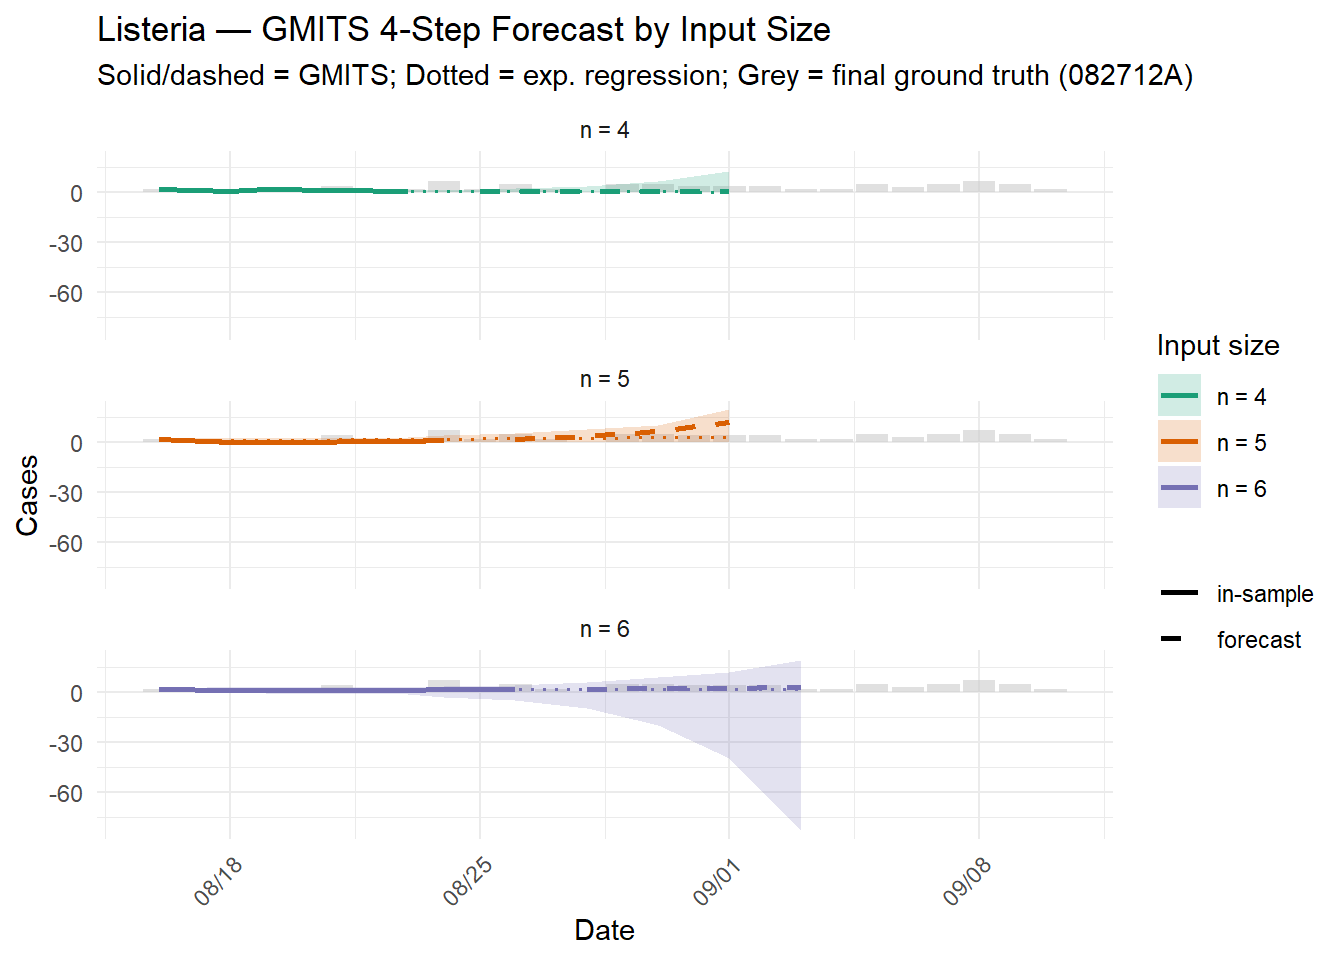
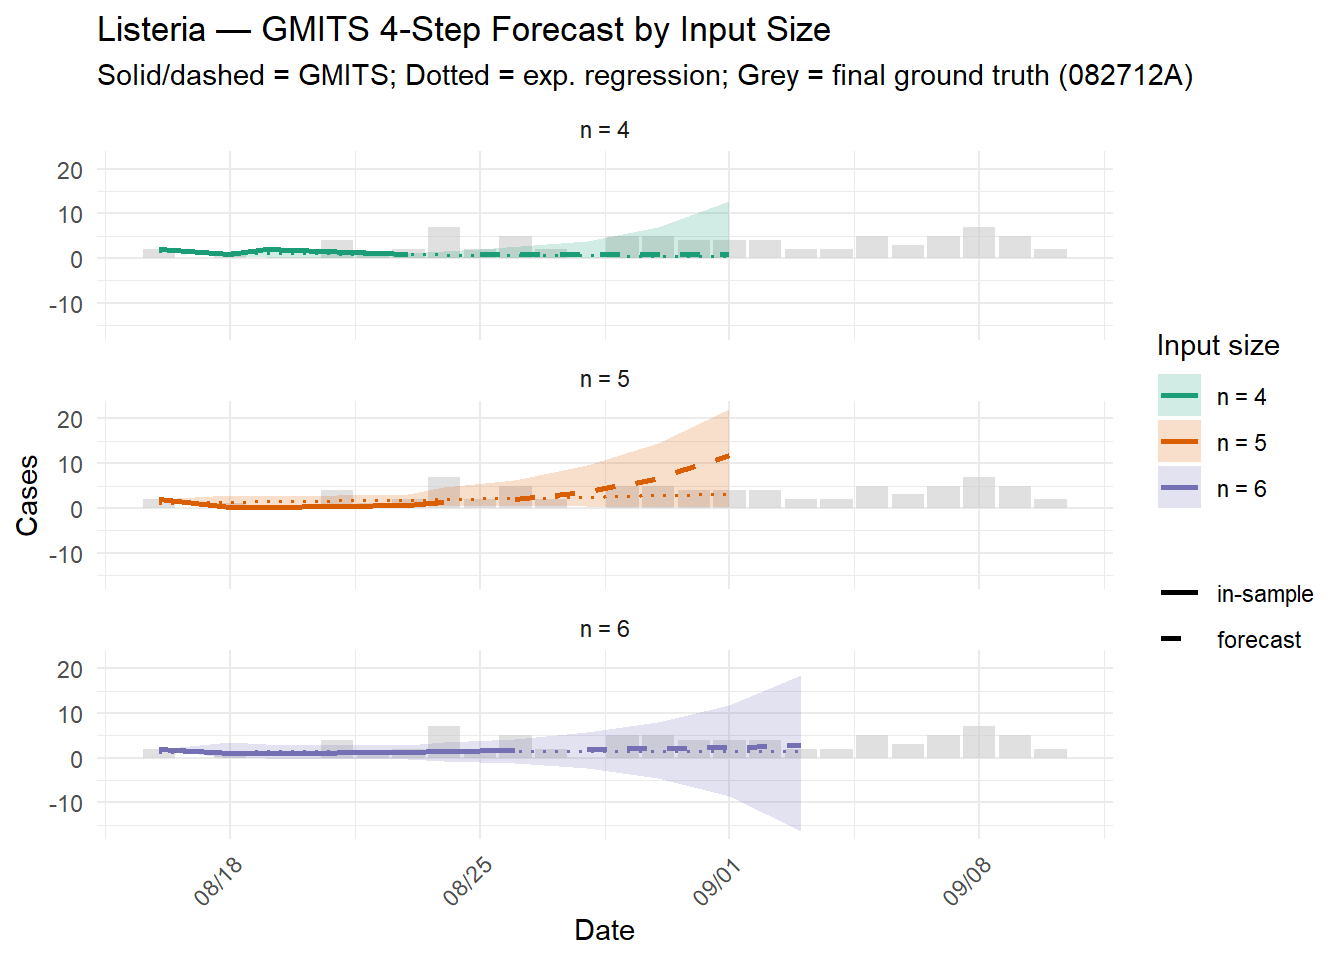
Add revision history to GMITS pages
- GMITS_Research: new "Revision history" section listing only changes
  that affect results, with before/after numbers for the 2026-10-13
  gmits() regression fix
- Shorten the inline implementation notes on all three GMITS pages and
  link them to the revision history instead of repeating the details
- Show "last updated" in page dates and on the Past works list

diff --git a/docs/GMITS_Research.html b/docs/GMITS_Research.html
@@ -11,7 +11,6 @@
 
 <meta name="author" content="Andy Chu" />
 
-<meta name="date" content="2026-05-23" />
 
 <title>GMITS: Grey Model for Irregular Time Series</title>
 
@@ -358,7 +357,7 @@ Series</h1>
 <h3 class="subtitle">Research Overview — Early-Stage Outbreak
 Forecasting</h3>
 <h4 class="author">Andy Chu</h4>
-<h4 class="date">2026-05-23</h4>
+<h4 class="date">2026-05-23 (last updated 2026-10-13)</h4>
 
 </div>
 
@@ -373,12 +372,9 @@ for the standalone write-ups of each.</p>
 <div id="functions" class="section level2 unnumbered">
 <h2 class="unnumbered">Functions</h2>
 <p>All pages load the same function file,
-<code>R/gmits_functions.R</code>. The <code>gmits()</code> regression
-was corrected on 2026-10-13: the previous version multiplied the design
-matrix by <span class="math inline">\(\Delta t\)</span> a second time,
-which shrank <span class="math inline">\((\hat a, \hat b)\)</span> by
-<span class="math inline">\(1/\Delta t\)</span> whenever reporting
-intervals were not one day.</p>
+<code>R/gmits_functions.R</code>. The regression in <code>gmits()</code>
+was corrected on 2026-10-13; see the <a
+href="#revision-history">revision history</a>.</p>
 <pre class="r"><code># Shared GMITS functions for all portfolio pages.
 # Single source of truth: pages load this file via a knitr `file =` chunk,
 # and external analyses (e.g. RA/mpox/gmits_england) source() it.
@@ -709,19 +705,14 @@ ggplot(df_synth_plot, aes(t, value, color = type, linetype = Forecast)) +
     x = &quot;Time (days from t₀)&quot;, y = &quot;Period incidence&quot;
   )</code></pre>
 <p><img src="GMITS_Research_files/figure-html/plot-synth-validate-1.png" width="672" /></p>
-<p><strong>Implementation note (corrected 2026-10-13).</strong> An
-earlier version of this page reported strong underprediction in the
-growth scenario and attributed it entirely to the background-value
-approximation. Most of that gap was an implementation error: the
-regression multiplied the design matrix by <span
-class="math inline">\(\Delta t\)</span> a second time, which shrank
-<span class="math inline">\((\hat a, \hat b)\)</span> by <span
-class="math inline">\(1/\Delta t\)</span> (previously <span
-class="math inline">\(\hat a = -0.116\)</span> for a true <span
-class="math inline">\(a = -0.4\)</span>). With the corrected regression
-the growth scenario recovers <span class="math inline">\(\hat a
-=\)</span> -0.357 and the decay scenario <span
-class="math inline">\(\hat a =\)</span> 0.293.</p>
+<p><strong>Implementation note.</strong> An earlier version of this page
+attributed a much larger growth-phase underprediction to the background
+value; most of it was an implementation error, corrected on 2026-10-13
+(<a href="#revision-history">revision history</a>). With the corrected
+regression the growth scenario recovers <span class="math inline">\(\hat
+a =\)</span> -0.357 (true <span class="math inline">\(-0.4\)</span>) and
+the decay scenario <span class="math inline">\(\hat a =\)</span> 0.293
+(true <span class="math inline">\(0.3\)</span>).</p>
 <p><strong>Remaining limitation — background-value bias in the growth
 phase.</strong> The residual gap in the growth scenario is the
 approximation bias of the GM(1,1) family. The background value <span
@@ -1376,6 +1367,51 @@ Exp. Reg.
 </tr>
 </tbody>
 </table>
+<hr />
+<div id="revision-history" class="section level2">
+<h2>Revision history</h2>
+<p>Only changes that affect reported results are listed.</p>
+<table>
+<colgroup>
+<col width="33%" />
+<col width="33%" />
+<col width="33%" />
+</colgroup>
+<thead>
+<tr class="header">
+<th align="left">Date</th>
+<th align="left">Change</th>
+<th align="left">Effect on results</th>
+</tr>
+</thead>
+<tbody>
+<tr class="odd">
+<td align="left">2026-05-23</td>
+<td align="left">Initial analysis</td>
+<td align="left">—</td>
+</tr>
+<tr class="even">
+<td align="left">2026-10-13</td>
+<td align="left">Corrected the <code>gmits()</code> regression.
+Integrating <span class="math inline">\(dx^{(1)}/dt + a x^{(1)} =
+b\)</span> over each interval gives <span
+class="math inline">\(x^{(0)}_{k} = -a z_{k} + b\)</span>; the previous
+code regressed on <span class="math inline">\((-z_{k}\Delta t_{k},
+\Delta t_{k})\)</span>, which shrank <span class="math inline">\((\hat
+a, \hat b)\)</span> by <span class="math inline">\(1/\Delta t\)</span>
+whenever reporting intervals were not one day (and could flip the sign
+of <span class="math inline">\(\hat a\)</span> on irregular grids). All
+GMITS pages now load one shared function file.</td>
+<td align="left">Synthetic growth scenario: <span
+class="math inline">\(\hat a\)</span> −0.116 → −0.357 (true −0.4).
+Listeria (n = 6) MAPE 90.25% → 45.45% (exp. regression 50.20%). Bongkrek
+(n = 4) MAPE 81.19% → 58.05% (exp. regression 64.47%). With 4 and 1
+verifiable steps, these do not establish that either method is more
+accurate.</td>
+</tr>
+</tbody>
+</table>
+</div>
 </div>
 
 

diff --git a/docs/Bongkrekic_Acid_2024.html b/docs/Bongkrekic_Acid_2024.html
@@ -11,7 +11,6 @@
 
 <meta name="author" content="Andy Chu" />
 
-<meta name="date" content="2026-05-14" />
 
 <title>Bongkrekic Acid Food Poisoning (2024)</title>
 
@@ -356,7 +355,7 @@ div.tocify {
 <h1 class="title toc-ignore">Bongkrekic Acid Food Poisoning (2024)</h1>
 <h3 class="subtitle">Early-Stage Outbreak Forecasting with GMITS</h3>
 <h4 class="author">Andy Chu</h4>
-<h4 class="date">2026-05-14</h4>
+<h4 class="date">2026-05-14 (last updated 2026-10-13)</h4>
 
 </div>
 
@@ -364,12 +363,9 @@ div.tocify {
 <div id="functions" class="section level2 unnumbered">
 <h2 class="unnumbered">Functions</h2>
 <p>All pages load the same function file,
-<code>R/gmits_functions.R</code>. The <code>gmits()</code> regression
-was corrected on 2026-10-13: the previous version multiplied the design
-matrix by <span class="math inline">\(\Delta t\)</span> a second time,
-which shrank <span class="math inline">\((\hat a, \hat b)\)</span> by
-<span class="math inline">\(1/\Delta t\)</span> whenever reporting
-intervals were not one day.</p>
+<code>R/gmits_functions.R</code>. The regression in <code>gmits()</code>
+was corrected on 2026-10-13; see the <a
+href="GMITS_Research.html#revision-history">revision history</a>.</p>
 <pre class="r"><code># Shared GMITS functions for all portfolio pages.
 # Single source of truth: pages load this file via a knitr `file =` chunk,
 # and external analyses (e.g. RA/mpox/gmits_england) source() it.
@@ -700,19 +696,15 @@ ggplot(df_synth_plot, aes(t, value, color = type, linetype = Forecast)) +
     x = &quot;Time (days from t₀)&quot;, y = &quot;Period incidence&quot;
   )</code></pre>
 <p><img src="Bongkrekic_Acid_2024_files/figure-html/plot-synth-validate-1.png" width="672" /></p>
-<p><strong>Implementation note (corrected 2026-10-13).</strong> An
-earlier version of this page reported strong underprediction in the
-growth scenario and attributed it entirely to the background-value
-approximation. Most of that gap was an implementation error: the
-regression multiplied the design matrix by <span
-class="math inline">\(\Delta t\)</span> a second time, which shrank
-<span class="math inline">\((\hat a, \hat b)\)</span> by <span
-class="math inline">\(1/\Delta t\)</span> (previously <span
-class="math inline">\(\hat a = -0.116\)</span> for a true <span
-class="math inline">\(a = -0.4\)</span>). With the corrected regression
-the growth scenario recovers <span class="math inline">\(\hat a
-=\)</span> -0.357 and the decay scenario <span
-class="math inline">\(\hat a =\)</span> 0.293.</p>
+<p><strong>Implementation note.</strong> An earlier version of this page
+attributed a much larger growth-phase underprediction to the background
+value; most of it was an implementation error, corrected on 2026-10-13
+(<a href="GMITS_Research.html#revision-history">revision history</a>).
+With the corrected regression the growth scenario recovers <span
+class="math inline">\(\hat a =\)</span> -0.357 (true <span
+class="math inline">\(-0.4\)</span>) and the decay scenario <span
+class="math inline">\(\hat a =\)</span> 0.293 (true <span
+class="math inline">\(0.3\)</span>).</p>
 <p><strong>Remaining limitation — background-value bias in the growth
 phase.</strong> The residual gap in the growth scenario is the
 approximation bias of the GM(1,1) family. The background value <span

diff --git a/docs/Listeria_2011.html b/docs/Listeria_2011.html
@@ -11,7 +11,6 @@
 
 <meta name="author" content="Andy Chu" />
 
-<meta name="date" content="2026-05-23" />
 
 <title>2011 Listeria Outbreak</title>
 
@@ -356,7 +355,7 @@ div.tocify {
 <h1 class="title toc-ignore">2011 Listeria Outbreak</h1>
 <h3 class="subtitle">Early-Stage Outbreak Forecasting with GMITS</h3>
 <h4 class="author">Andy Chu</h4>
-<h4 class="date">2026-05-23</h4>
+<h4 class="date">2026-05-23 (last updated 2026-10-13)</h4>
 
 </div>
 
@@ -364,12 +363,9 @@ div.tocify {
 <div id="functions" class="section level2 unnumbered">
 <h2 class="unnumbered">Functions</h2>
 <p>All pages load the same function file,
-<code>R/gmits_functions.R</code>. The <code>gmits()</code> regression
-was corrected on 2026-10-13: the previous version multiplied the design
-matrix by <span class="math inline">\(\Delta t\)</span> a second time,
-which shrank <span class="math inline">\((\hat a, \hat b)\)</span> by
-<span class="math inline">\(1/\Delta t\)</span> whenever reporting
-intervals were not one day.</p>
+<code>R/gmits_functions.R</code>. The regression in <code>gmits()</code>
+was corrected on 2026-10-13; see the <a
+href="GMITS_Research.html#revision-history">revision history</a>.</p>
 <pre class="r"><code># Shared GMITS functions for all portfolio pages.
 # Single source of truth: pages load this file via a knitr `file =` chunk,
 # and external analyses (e.g. RA/mpox/gmits_england) source() it.
@@ -700,19 +696,15 @@ ggplot(df_synth_plot, aes(t, value, color = type, linetype = Forecast)) +
     x = &quot;Time (days from t₀)&quot;, y = &quot;Period incidence&quot;
   )</code></pre>
 <p><img src="Listeria_2011_files/figure-html/plot-synth-validate-1.png" width="672" /></p>
-<p><strong>Implementation note (corrected 2026-10-13).</strong> An
-earlier version of this page reported strong underprediction in the
-growth scenario and attributed it entirely to the background-value
-approximation. Most of that gap was an implementation error: the
-regression multiplied the design matrix by <span
-class="math inline">\(\Delta t\)</span> a second time, which shrank
-<span class="math inline">\((\hat a, \hat b)\)</span> by <span
-class="math inline">\(1/\Delta t\)</span> (previously <span
-class="math inline">\(\hat a = -0.116\)</span> for a true <span
-class="math inline">\(a = -0.4\)</span>). With the corrected regression
-the growth scenario recovers <span class="math inline">\(\hat a
-=\)</span> -0.357 and the decay scenario <span
-class="math inline">\(\hat a =\)</span> 0.293.</p>
+<p><strong>Implementation note.</strong> An earlier version of this page
+attributed a much larger growth-phase underprediction to the background
+value; most of it was an implementation error, corrected on 2026-10-13
+(<a href="GMITS_Research.html#revision-history">revision history</a>).
+With the corrected regression the growth scenario recovers <span
+class="math inline">\(\hat a =\)</span> -0.357 (true <span
+class="math inline">\(-0.4\)</span>) and the decay scenario <span
+class="math inline">\(\hat a =\)</span> 0.293 (true <span
+class="math inline">\(0.3\)</span>).</p>
 <p><strong>Remaining limitation — background-value bias in the growth
 phase.</strong> The residual gap in the growth scenario is the
 approximation bias of the GM(1,1) family. The background value <span

diff --git a/docs/results.html b/docs/results.html
@@ -357,25 +357,25 @@ div.tocify {
 <p>A selection of past analyses and research work.</p>
 <ul>
 <li><p><strong><a href="GMITS_Research.html">GMITS: Grey Model for
-Irregular Time Series</a></strong> <em>(2026-05-23)</em> — Research
-overview of GMITS methodology, combining the synthetic validation and
-both outbreak applications (Bongkrekic acid and Listeria) into a single
-page.</p></li>
+Irregular Time Series</a></strong> <em>(2026-05-23; updated
+2026-10-13)</em> — Research overview of GMITS methodology, combining the
+synthetic validation and both outbreak applications (Bongkrekic acid and
+Listeria) into a single page.</p></li>
 <li><p><strong><a href="Listeria_2011.html">2011 Listeria
-Outbreak</a></strong> <em>(2026-05-23)</em> — GMITS applied to a
-sporadic foodborne outbreak, comparing forecast accuracy across input
-sizes (n = 4/5/6) and testing sensitivity to right-truncated
-(underreported) recent data.</p></li>
+Outbreak</a></strong> <em>(2026-05-23; updated 2026-10-13)</em> — GMITS
+applied to a sporadic foodborne outbreak, comparing forecast accuracy
+across input sizes (n = 4/5/6) and testing sensitivity to
+right-truncated (underreported) recent data.</p></li>
 <li><p><strong><a href="Hantavirus.html">HFRS Incubation Period
 Estimation</a></strong> <em>(2026-05-14)</em> — Bayesian (Stan/HMC) and
 MLE estimation of the incubation period for hemorrhagic fever with renal
 syndrome, using a doubly interval-censored likelihood.</p></li>
 <li><p><strong><a href="Bongkrekic_Acid_2024.html">Bongkrekic Acid Food
-Poisoning (2024)</a></strong> <em>(2026-05-14)</em> — Early-stage
-outbreak forecasting with GMITS (Grey Model for Irregular Time Series),
-validated on synthetic data and applied to a real point-source outbreak.
-This is the main intention behind researching limited-data
-prediction.</p></li>
+Poisoning (2024)</a></strong> <em>(2026-05-14; updated 2026-10-13)</em>
+— Early-stage outbreak forecasting with GMITS (Grey Model for Irregular
+Time Series), validated on synthetic data and applied to a real
+point-source outbreak. This is the main intention behind researching
+limited-data prediction.</p></li>
 <li><p><strong><a href="Bongkrek_Poster.html">Bongkrekic Acid Outbreak —
 Conference Poster</a></strong> <em>(2024-10-25)</em> — Summary of the
 poster presented at the 35th Annual Meeting of the Japan Epidemiological
